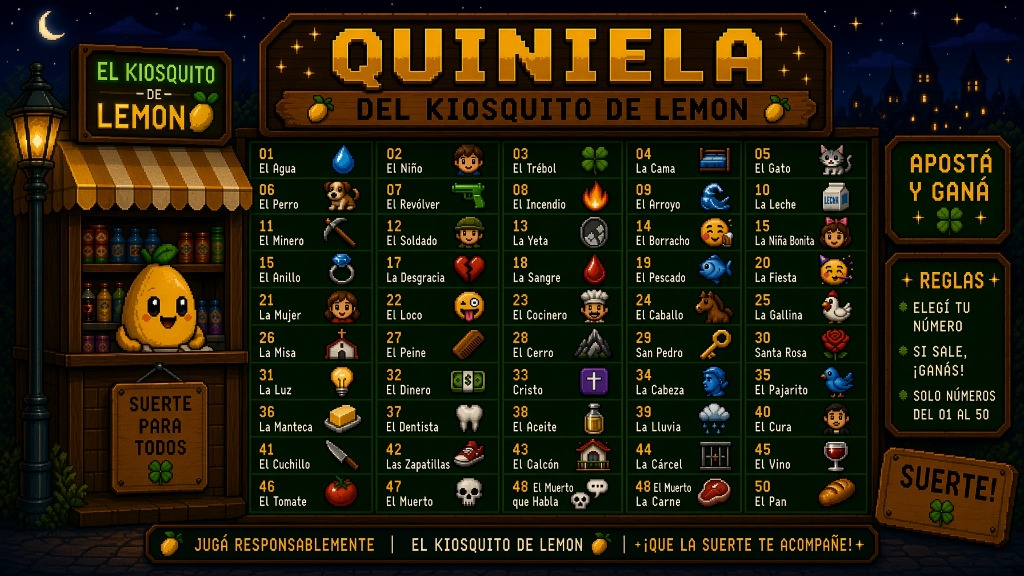
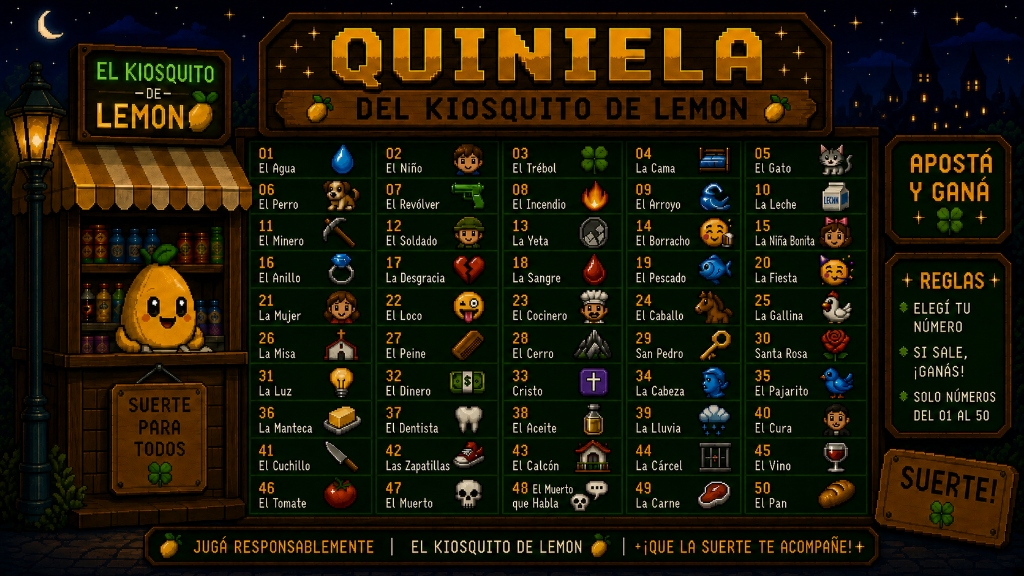
feat: Actualización de tabla oficial de Quiniela, auto-limpieza de mensajes y activación pública

diff --git a/bot.py b/bot.py
@@ -3227,6 +3227,7 @@ class QuinielaBetModal(discord.ui.Modal, title="🎱 Apostar en la Quiniela"):
             color=discord.Color.green(),
         )
         await interaction.response.send_message(embed=embed, ephemeral=True)
+        asyncio.create_task(auto_delete_interaction(interaction, 180))
 
 
 class QuinielaView(discord.ui.View):
@@ -3308,6 +3309,8 @@ async def start_quiniela_session(interaction: discord.Interaction):
     else:
         await interaction.response.send_message(embed=embed, view=view, ephemeral=True)
 
+    asyncio.create_task(auto_delete_interaction(interaction, 180))
+
 
 async def run_quiniela_draw(guild: discord.Guild, target_channel: discord.TextChannel | None = None, is_private: bool = False):
     channel = target_channel or await get_or_create_kiosk_channel(guild)
@@ -3325,12 +3328,12 @@ async def run_quiniela_draw(guild: discord.Guild, target_channel: discord.TextCh
             break
 
     sorteando_path = ROOT / "assets" / "quiniela" / "sorteando.gif"
-    role_ping = quinielero_role.mention if (quinielero_role and not is_private) else "**[ MODO DE TEST / PRUEBA PRIVADA ]**"
+    role_ping = quinielero_role.mention if (quinielero_role and not is_private) else ""
 
     initial_embed = discord.Embed(
         title="🎱 ¡SORTEO OFICIAL DE LA QUINIELA DEL KIOSQUITO! 🎰",
         description=(
-            f"{role_ping}\n\n"
+            f"{role_ping}\n\n" if role_ping else ""
             "🧔 **El Kiosquero:** *«¡Atención a todos los vecinos! Hacemos girar el bolillero de metal...»*\n\n"
             "⏳ *Las bolillas están dando vueltas en el aire a toda velocidad...*"
         ),
@@ -3342,10 +3345,14 @@ async def run_quiniela_draw(guild: discord.Guild, target_channel: discord.TextCh
         initial_embed.set_image(url="attachment://sorteando.gif")
 
     content_msg = quinielero_role.mention if (quinielero_role and not is_private) else None
-    if gif_file:
-        draw_msg = await channel.send(content=content_msg, embed=initial_embed, file=gif_file)
-    else:
-        draw_msg = await channel.send(content=content_msg, embed=initial_embed)
+    draw_msg = None
+    try:
+        if gif_file:
+            draw_msg = await channel.send(content=content_msg, embed=initial_embed, file=gif_file)
+        else:
+            draw_msg = await channel.send(content=content_msg, embed=initial_embed)
+    except Exception as e:
+        print(f"Error enviando mensaje inicial de la quiniela: {e}")
 
     # Pausa de 3 segundos para suspenso y animación
     await asyncio.sleep(3.0)
@@ -3407,11 +3414,19 @@ async def run_quiniela_draw(guild: discord.Guild, target_channel: discord.TextCh
     if result_file:
         final_embed.set_image(url=f"attachment://{win_number}.png")
 
+    # Limpiar el mensaje de animación previo para dejar el canal impecable
+    if draw_msg:
+        try:
+            await draw_msg.delete()
+        except Exception:
+            pass
+
     try:
         if result_file:
-            await channel.send(embed=final_embed, file=result_file)
+            res_msg = await channel.send(embed=final_embed, file=result_file)
         else:
-            await channel.send(embed=final_embed)
+            res_msg = await channel.send(embed=final_embed)
+        record_consumption_message(guild.id, channel.id, res_msg.id)
     except Exception as e:
         print(f"Error publicando resultado final de la quiniela: {e}")
 
@@ -4311,8 +4326,8 @@ async def presence_loop():
             restock_kiosk(guild.id)
             await update_kiosk_fixed_message(guild, repost=False)
 
-        # Verificación de Quiniela Automática (Solo si el admin la activó con quiniela_auto_enabled == "1"):
-        auto_quiniela = get_setting(guild.id, "quiniela_auto_enabled", "0") == "1"
+        # Verificación de Quiniela Automática (Diaria a las 21:00 hs):
+        auto_quiniela = get_setting(guild.id, "quiniela_auto_enabled", "1") == "1"
         if auto_quiniela:
             today_str = now.strftime("%Y-%m-%d")
             if now.hour == 20 and now.minute == 40:
@@ -5204,13 +5219,13 @@ async def quiniela_cmd(
     await interaction.response.send_message(embed=embed, ephemeral=True)
 
 
-@bot.tree.command(name="admin_sortear_quiniela", description="[Admin] Forzar o probar el sorteo de la Quiniela en vivo.")
+@bot.tree.command(name="admin_sortear_quiniela", description="[Admin] Forzar y ejecutar el sorteo oficial de la Quiniela en vivo ahora mismo.")
 @app_commands.checks.has_permissions(manage_guild=True)
-@app_commands.describe(privado="True para no arrobar a nadie (modo test), False para hacer el sorteo oficial con mención.")
 @app_commands.guild_only()
-async def admin_sortear_quiniela_cmd(interaction: discord.Interaction, privado: bool = True):
-    await interaction.response.send_message("🎰 **Iniciando sorteo de la Quiniela...**", ephemeral=True)
-    await run_quiniela_draw(interaction.guild, target_channel=interaction.channel, is_private=privado)
+async def admin_sortear_quiniela_cmd(interaction: discord.Interaction):
+    await interaction.response.send_message("🎰 **Iniciando sorteo de la Quiniela en vivo...**", ephemeral=True)
+    asyncio.create_task(auto_delete_interaction(interaction, 180))
+    await run_quiniela_draw(interaction.guild, target_channel=interaction.channel, is_private=False)
 
 
 @bot.tree.command(name="admin_quiniela_automatica", description="[Admin] Activar o desactivar los anuncios y sorteos automáticos a las 21:00 hs.")
